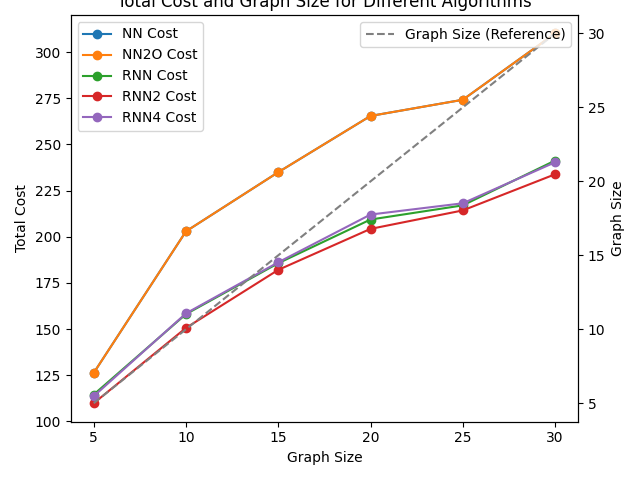
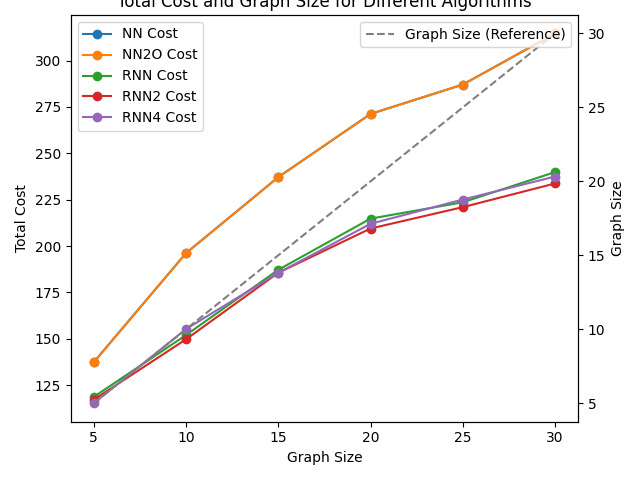
started report

diff --git a/part1.py b/part1.py
@@ -27,7 +27,7 @@ def make_graph(node_amount):
 # Nearest Neighbors algorithm
 # code based on the below stackoverflow post
 # https://stackoverflow.com/questions/17493494/nearest-neighbour-algorithm
-def nearest_neighbor(adj_matrix, start, make_file):
+def NN(adj_matrix, start, make_file):
 
     
     real_start_time = time.time()  # Wall clock time
@@ -63,7 +63,7 @@ def nearest_neighbor(adj_matrix, start, make_file):
     real_run_time = real_end_time - real_start_time
 
     if make_file:
-        with open('nearest_neighbor.csv', mode='w', newline='') as file:
+        with open('NN.csv', mode='w', newline='') as file:
             writer = csv.writer(file)
             writer.writerow([f"Total cost: {cost}, Nodes expanded: {nodes_expanded}, CPU Run Time: {cpu_run_time:.6f} seconds, Real-World Run Time: {real_run_time:.6f} seconds"])
     
@@ -73,13 +73,14 @@ def nearest_neighbor(adj_matrix, start, make_file):
 
 
 # might need to keep track of the cost from 2-opt and add it, idk
-def nearest_neighbor_2opt(adj_matrix, make_file):
+def NN2O(adj_matrix, make_file):
 
     real_start_time = time.time()  
     cpu_start_time = psutil.Process(os.getpid()).cpu_times().user 
 
-    path, cost, nn_expanded, nn_cpu_runtime, nn_real_runtime = nearest_neighbor(adj_matrix, 0, False)
+    path, cost, nn_expanded, nn_cpu_runtime, nn_real_runtime = NN(adj_matrix, 0, False)
     optimized_route, two_opt_expanded = two_opt(path, adj_matrix)
+    
 
     real_end_time = time.time()  
     cpu_end_time = psutil.Process(os.getpid()).cpu_times().user  
@@ -87,7 +88,7 @@ def nearest_neighbor_2opt(adj_matrix, make_file):
     real_run_time = real_end_time - real_start_time
 
     if make_file:
-        with open('nearest_neighbor_2opt.csv', mode='w', newline='') as file:
+        with open('NN2O.csv', mode='w', newline='') as file:
                 writer = csv.writer(file)
                 writer.writerow([f"Total cost: {cost}, Nodes expanded: {two_opt_expanded + nn_expanded}, CPU Run Time: {cpu_run_time:.6f} seconds, Real-World Run Time: {real_run_time:.6f} seconds"])
 
@@ -121,7 +122,7 @@ def two_opt(route, cost_mat):
 
 # adapted from a chatgpt prompt asking to adapt my above NN and NN2O code 
 # into an RNN algorithm
-def repeated_randomized_nearest_neighbor_2opt(adj_matrix, iterations=10, n=3, make_file=True):
+def RNN(adj_matrix, iterations=10, n=3, make_file=True):
     best_path = None
     best_cost = float('inf')
     total_nodes_expanded = 0
@@ -183,7 +184,7 @@ def repeated_randomized_nearest_neighbor_2opt(adj_matrix, iterations=10, n=3, ma
     real_run_time = real_end_time - real_start_time
 
     if make_file:
-        with open('repeated_randomized_nearest_neighbor_2opt.csv', mode='w', newline='') as file:
+        with open('RNN.csv', mode='w', newline='') as file:
             writer = csv.writer(file)
             writer.writerow([f"Best Total cost: {best_cost}, Total Nodes expanded: {total_nodes_expanded}, CPU Run Time: {cpu_run_time:.6f} seconds, Real-World Run Time: {real_run_time:.6f} seconds"])
 
@@ -210,11 +211,11 @@ def process_graph_family(size_graphs, size_label):
     # Loop through each graph in the family
     for graph in size_graphs:  # Iterate directly over size_graphs
         # Run algorithms and append results
-        nn_path, nn_cost, nn_expanded_val, nn_cpu_val, nn_real_val = nearest_neighbor(graph, 0, False)
-        nn2o_path, nn2o_cost, nn2o_expanded_val, nn2o_cpu_val, nn2o_real_val = nearest_neighbor_2opt(graph, False)
-        rnn_path, rnn_cost, rnn_expanded_val, rnn_cpu_val, rnn_real_val = repeated_randomized_nearest_neighbor_2opt(graph, n=3, make_file=False)
-        rnn2_path, rnn2_cost, rnn2_expanded_val, rnn2_cpu_val, rnn2_real_val = repeated_randomized_nearest_neighbor_2opt(graph, n=2, make_file=False)
-        rnn4_path, rnn4_cost, rnn4_expanded_val, rnn4_cpu_val, rnn4_real_val = repeated_randomized_nearest_neighbor_2opt(graph, n=4, make_file=False)
+        nn_path, nn_cost, nn_expanded_val, nn_cpu_val, nn_real_val = NN(graph, 0, False)
+        nn2o_path, nn2o_cost, nn2o_expanded_val, nn2o_cpu_val, nn2o_real_val = NN2O(graph, False)
+        rnn_path, rnn_cost, rnn_expanded_val, rnn_cpu_val, rnn_real_val = RNN(graph, n=3, make_file=False)
+        rnn2_path, rnn2_cost, rnn2_expanded_val, rnn2_cpu_val, rnn2_real_val = RNN(graph, n=2, make_file=False)
+        rnn4_path, rnn4_cost, rnn4_expanded_val, rnn4_cpu_val, rnn4_real_val = RNN(graph, n=4, make_file=False)
 
         # Append results for size X graphs
         nn_costs.append(nn_cost)

diff --git a/part2.py b/part2.py
@@ -3,7 +3,7 @@ import time
 import numpy as np
 import csv
 import networkx as nx 
-from part1 import make_graph, calculate_stats, nearest_neighbor, nearest_neighbor_2opt, repeated_randomized_nearest_neighbor_2opt
+from part1 import make_graph, calculate_stats, NN, NN2O, RNN
 import os
 import matplotlib.pyplot as plt
 
@@ -28,7 +28,7 @@ def mst_heuristic(adj_matrix, unvisited):
     return mst.size(weight='weight')
 
 # A* with MST heuristic
-def A_MST(adj_matrix):
+def A_MST(adj_matrix, make_file=False):
     N = adj_matrix.shape[0]
     start_city = 0
     
@@ -65,6 +65,11 @@ def A_MST(adj_matrix):
             # Calculate CPU and real-world runtime
             cpu_runtime = time.process_time() - start_cpu_time
             real_runtime = time.time() - start_real_time
+
+            if make_file:
+                with open('repeated_randomized_nearest_neighbor_2opt.csv', mode='w', newline='') as file:
+                    writer = csv.writer(file)
+                    writer.writerow([f"Best Total cost: {total_cost}, Total Nodes expanded: {nodes_expanded}, CPU Run Time: {cpu_runtime:.6f} seconds, Real-World Run Time: {real_runtime:.6f} seconds"])
             
             return path, total_cost, nodes_expanded, cpu_runtime, real_runtime
         
@@ -90,6 +95,7 @@ def A_MST(adj_matrix):
     # If no solution found, return large values for cost and zero for times
     cpu_runtime = time.process_time() - start_cpu_time
     real_runtime = time.time() - start_real_time
+
     return None, float('inf'), nodes_expanded, cpu_runtime, real_runtime
 
 def run_A_star(size_graphs):
@@ -118,7 +124,7 @@ def run_nn(size_graphs):
     results = []  # Store (cost, expanded, cpu, real) for each graph
 
     for graph in size_graphs:
-        path, cost, expanded_val, cpu_val, real_val = nearest_neighbor(graph, 0, False)
+        path, cost, expanded_val, cpu_val, real_val = NN(graph, 0, False)
         results.append((cost, expanded_val))
 
     # Calculate statistics
@@ -137,7 +143,7 @@ def run_nn2o(size_graphs):
     results = []  # Store (cost, expanded, cpu, real) for each graph
 
     for graph in size_graphs:
-        path, cost, expanded_val, cpu_val, real_val = nearest_neighbor_2opt(graph, False)
+        path, cost, expanded_val, cpu_val, real_val = NN2O(graph, False)
         results.append((cost, expanded_val))
 
     # Calculate statistics
@@ -156,7 +162,7 @@ def run_rnn(size_graphs):
     results = []  # Store (cost, expanded, cpu, real) for each graph
 
     for graph in size_graphs:
-        path, cost, expanded_val, cpu_val, real_val = repeated_randomized_nearest_neighbor_2opt(adj_matrix=graph, make_file=False)
+        path, cost, expanded_val, cpu_val, real_val = RNN(adj_matrix=graph, make_file=False)
         results.append((cost, expanded_val))
 
     # Calculate statistics

diff --git a/run_parts.py b/run_parts.py
@@ -8,31 +8,31 @@ import numpy as np
 import matplotlib.pyplot as plt
 
 def main():
-    # Print starting part 1
-    # size_5_graphs = [] 
-    # size_10_graphs = []
-    # size_15_graphs = []
-    # size_20_graphs = []
-    # size_25_graphs = []
-    # size_30_graphs = []
+    print("starting part 1")
+    size_5_graphs = [] 
+    size_10_graphs = []
+    size_15_graphs = []
+    size_20_graphs = []
+    size_25_graphs = []
+    size_30_graphs = []
 
-    # for i in range(30):
-    #     size_5_graphs.append(make_graph(5))
-    #     size_10_graphs.append(make_graph(10))
-    #     size_15_graphs.append(make_graph(15))
-    #     size_20_graphs.append(make_graph(20))
-    #     size_25_graphs.append(make_graph(25))
-    #     size_30_graphs.append(make_graph(30))
+    for i in range(30):
+        size_5_graphs.append(make_graph(5))
+        size_10_graphs.append(make_graph(10))
+        size_15_graphs.append(make_graph(15))
+        size_20_graphs.append(make_graph(20))
+        size_25_graphs.append(make_graph(25))
+        size_30_graphs.append(make_graph(30))
 
 
-    # size_5_stats = process_graph_family(size_5_graphs, 'Size_5')
-    # size_10_stats = process_graph_family(size_10_graphs, 'Size_10')
-    # size_15_stats = process_graph_family(size_15_graphs, 'Size_15')
-    # size_20_stats = process_graph_family(size_20_graphs, 'Size_20')
-    # size_25_stats = process_graph_family(size_25_graphs, 'Size_25')
-    # size_30_stats = process_graph_family(size_30_graphs, 'Size_30')
+    size_5_stats = process_graph_family(size_5_graphs, 'Size_5')
+    size_10_stats = process_graph_family(size_10_graphs, 'Size_10')
+    size_15_stats = process_graph_family(size_15_graphs, 'Size_15')
+    size_20_stats = process_graph_family(size_20_graphs, 'Size_20')
+    size_25_stats = process_graph_family(size_25_graphs, 'Size_25')
+    size_30_stats = process_graph_family(size_30_graphs, 'Size_30')
 
-    # make_part1_graphs()
+    make_part1_graphs()
 
     #Part 2 of HW
     print('Starting Part 2')

diff --git a/main.py b/main.py
@@ -1,6 +1,6 @@
 import sys
 import numpy as np
-from part1 import make_graph, nearest_neighbor, nearest_neighbor_2opt, repeated_randomized_nearest_neighbor_2opt
+from part1 import make_graph, NN, NN2O, RNN
 from part2 import A_MST
 from part3 import hillClimbing, simuAnnealing, genetic
 
@@ -17,12 +17,18 @@ def main():
         matrix.append([int(x) for x in line.split()])  
     adjacency_matrix = np.array(matrix)
 
-    nn_path, nn_cost, nn_nodes_expanded, nn_cpu_run_time, nn_real_run_time = nearest_neighbor(adjacency_matrix, 0, True)
-    nn2_path, nn2_cost, nn2_nodes_expanded, nn2_cpu_run_time, nn2_real_run_time = nearest_neighbor_2opt(adjacency_matrix, True)
-    rnn_path, rnn_cost, rnn_nodes_expanded, rnn_cpu_run_time, rnn_real_run_time = repeated_randomized_nearest_neighbor_2opt(adjacency_matrix, 10, 3, True)
+    print("Running Part 1 algorithms")
+    nn_path, nn_cost, nn_nodes_expanded, nn_cpu_run_time, nn_real_run_time = NN(adjacency_matrix, 0, True)
+    nn2_path, nn2_cost, nn2_nodes_expanded, nn2_cpu_run_time, nn2_real_run_time = NN2O(adjacency_matrix, True)
+    rnn_path, rnn_cost, rnn_nodes_expanded, rnn_cpu_run_time, rnn_real_run_time = RNN(adjacency_matrix, 10, 3, True)
 
-    
-    print(f'NN nodes expanded: {nn2_nodes_expanded}, NN2O nodes expanded: {nn2_nodes_expanded}, RNN nodes expanded: {rnn_nodes_expanded}')
+    print("Running Part 2 algorithms")
+    a_path, a_cost, a_nodes_expanded, a_cpu, a_real = A_MST(adjacency_matrix, True)
+
+    print("Running Part 3 algorithms")
+    h_path, h_cost, h_nodes_expanded, h_cpu, h_real = hillClimbing(adjacency_matrix, True)
+    s_path, s_cost, s_nodes_expanded, s_cpu, s_real = simuAnnealing(adjacency_matrix, True)
+    g_path, g_cost, g_nodes_expanded, g_cpu, g_real = genetic(adjacency_matrix, True)
         
 
 if __name__ == '__main__':
